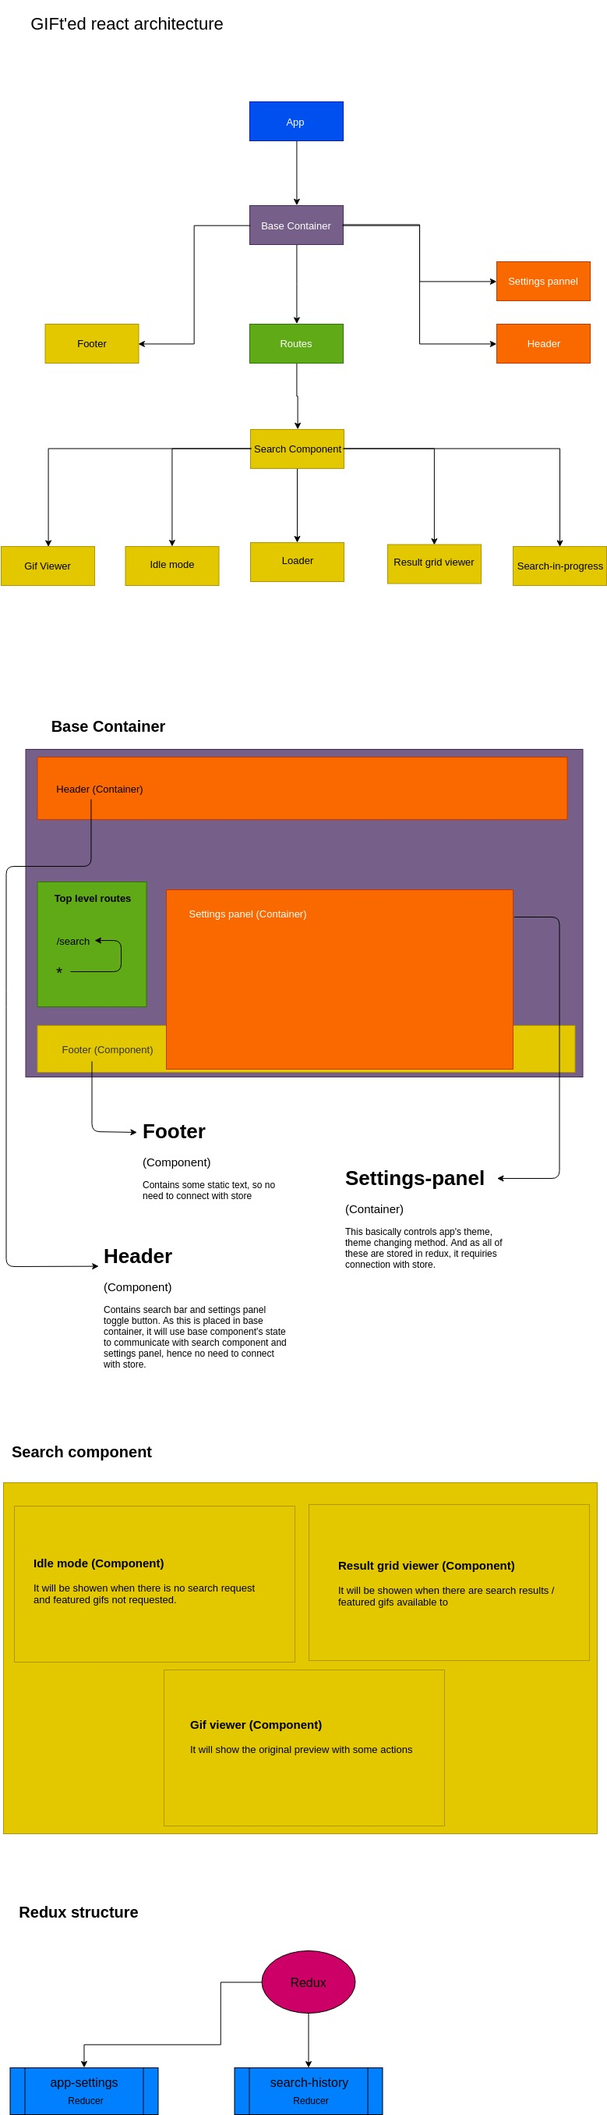
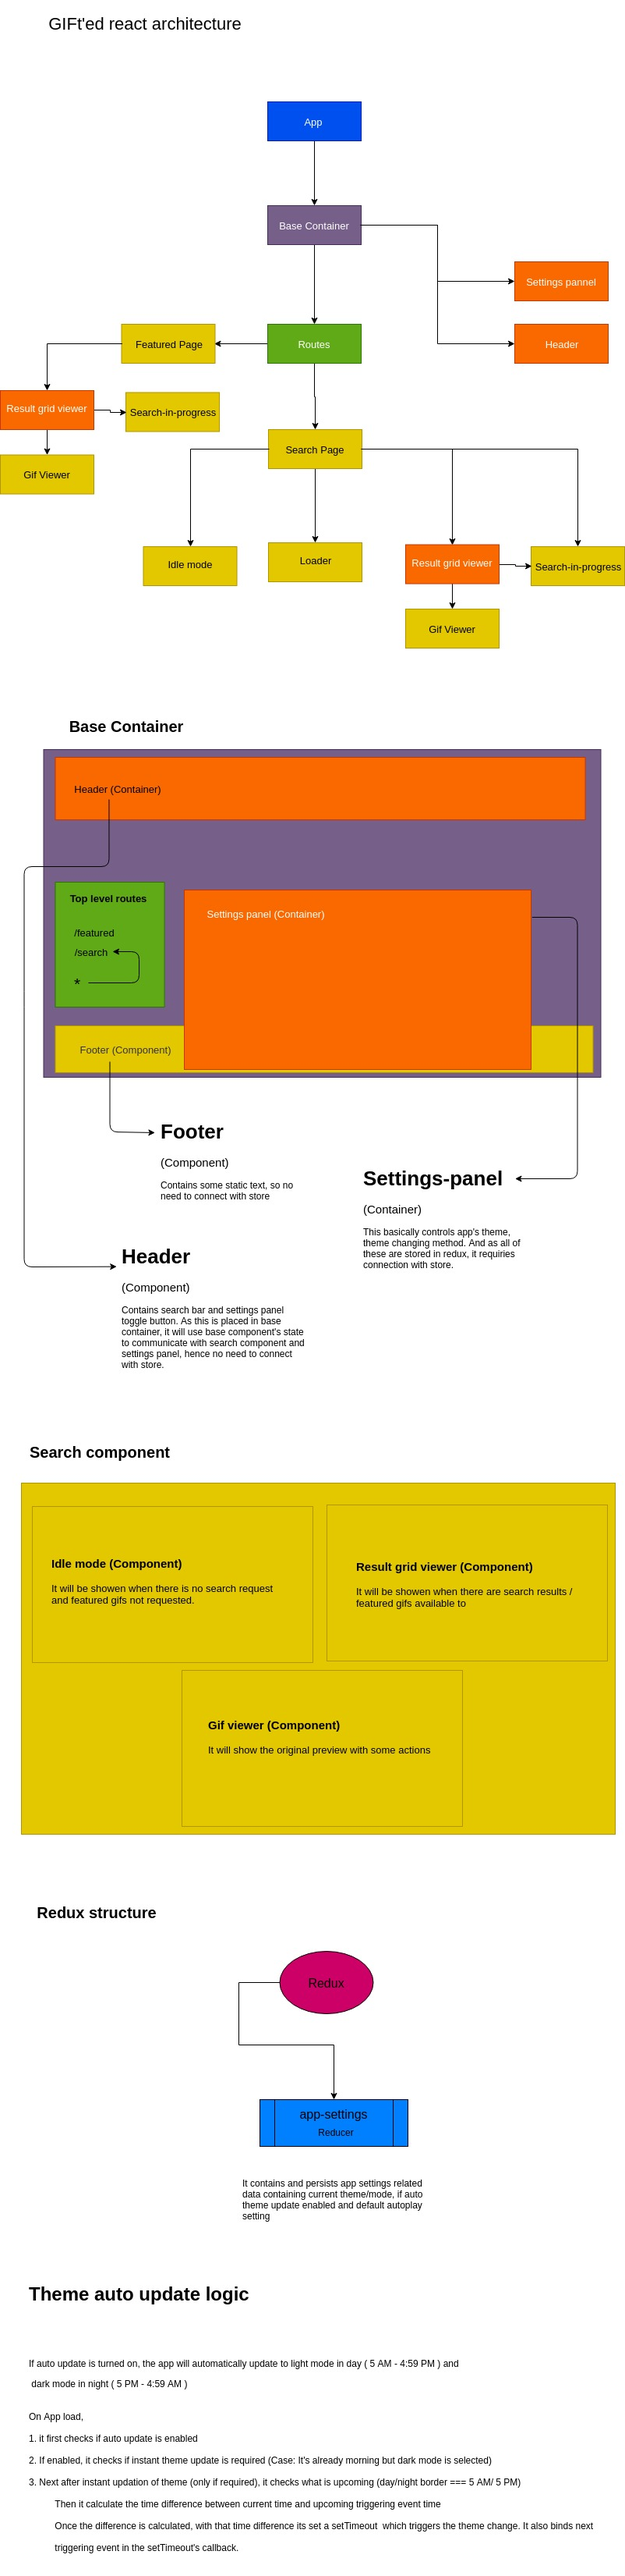
Added architecture design overview in README

diff --git a/README.md b/README.md
@@ -26,3 +26,6 @@ yarn start
 8. Quick links are provided (socail links, copy to clipboard & embed code)
 9. No 3rd party UI library included (UI development code is available with git logs in a seperate directory)
 
+![](./project-architecture-design/gifted-architecture.jpg)
+
+![](https://res.cloudinary.com/dqzurhnfk/image/upload/v1572828388/gifted-architecture_lbfgqw.jpg)
